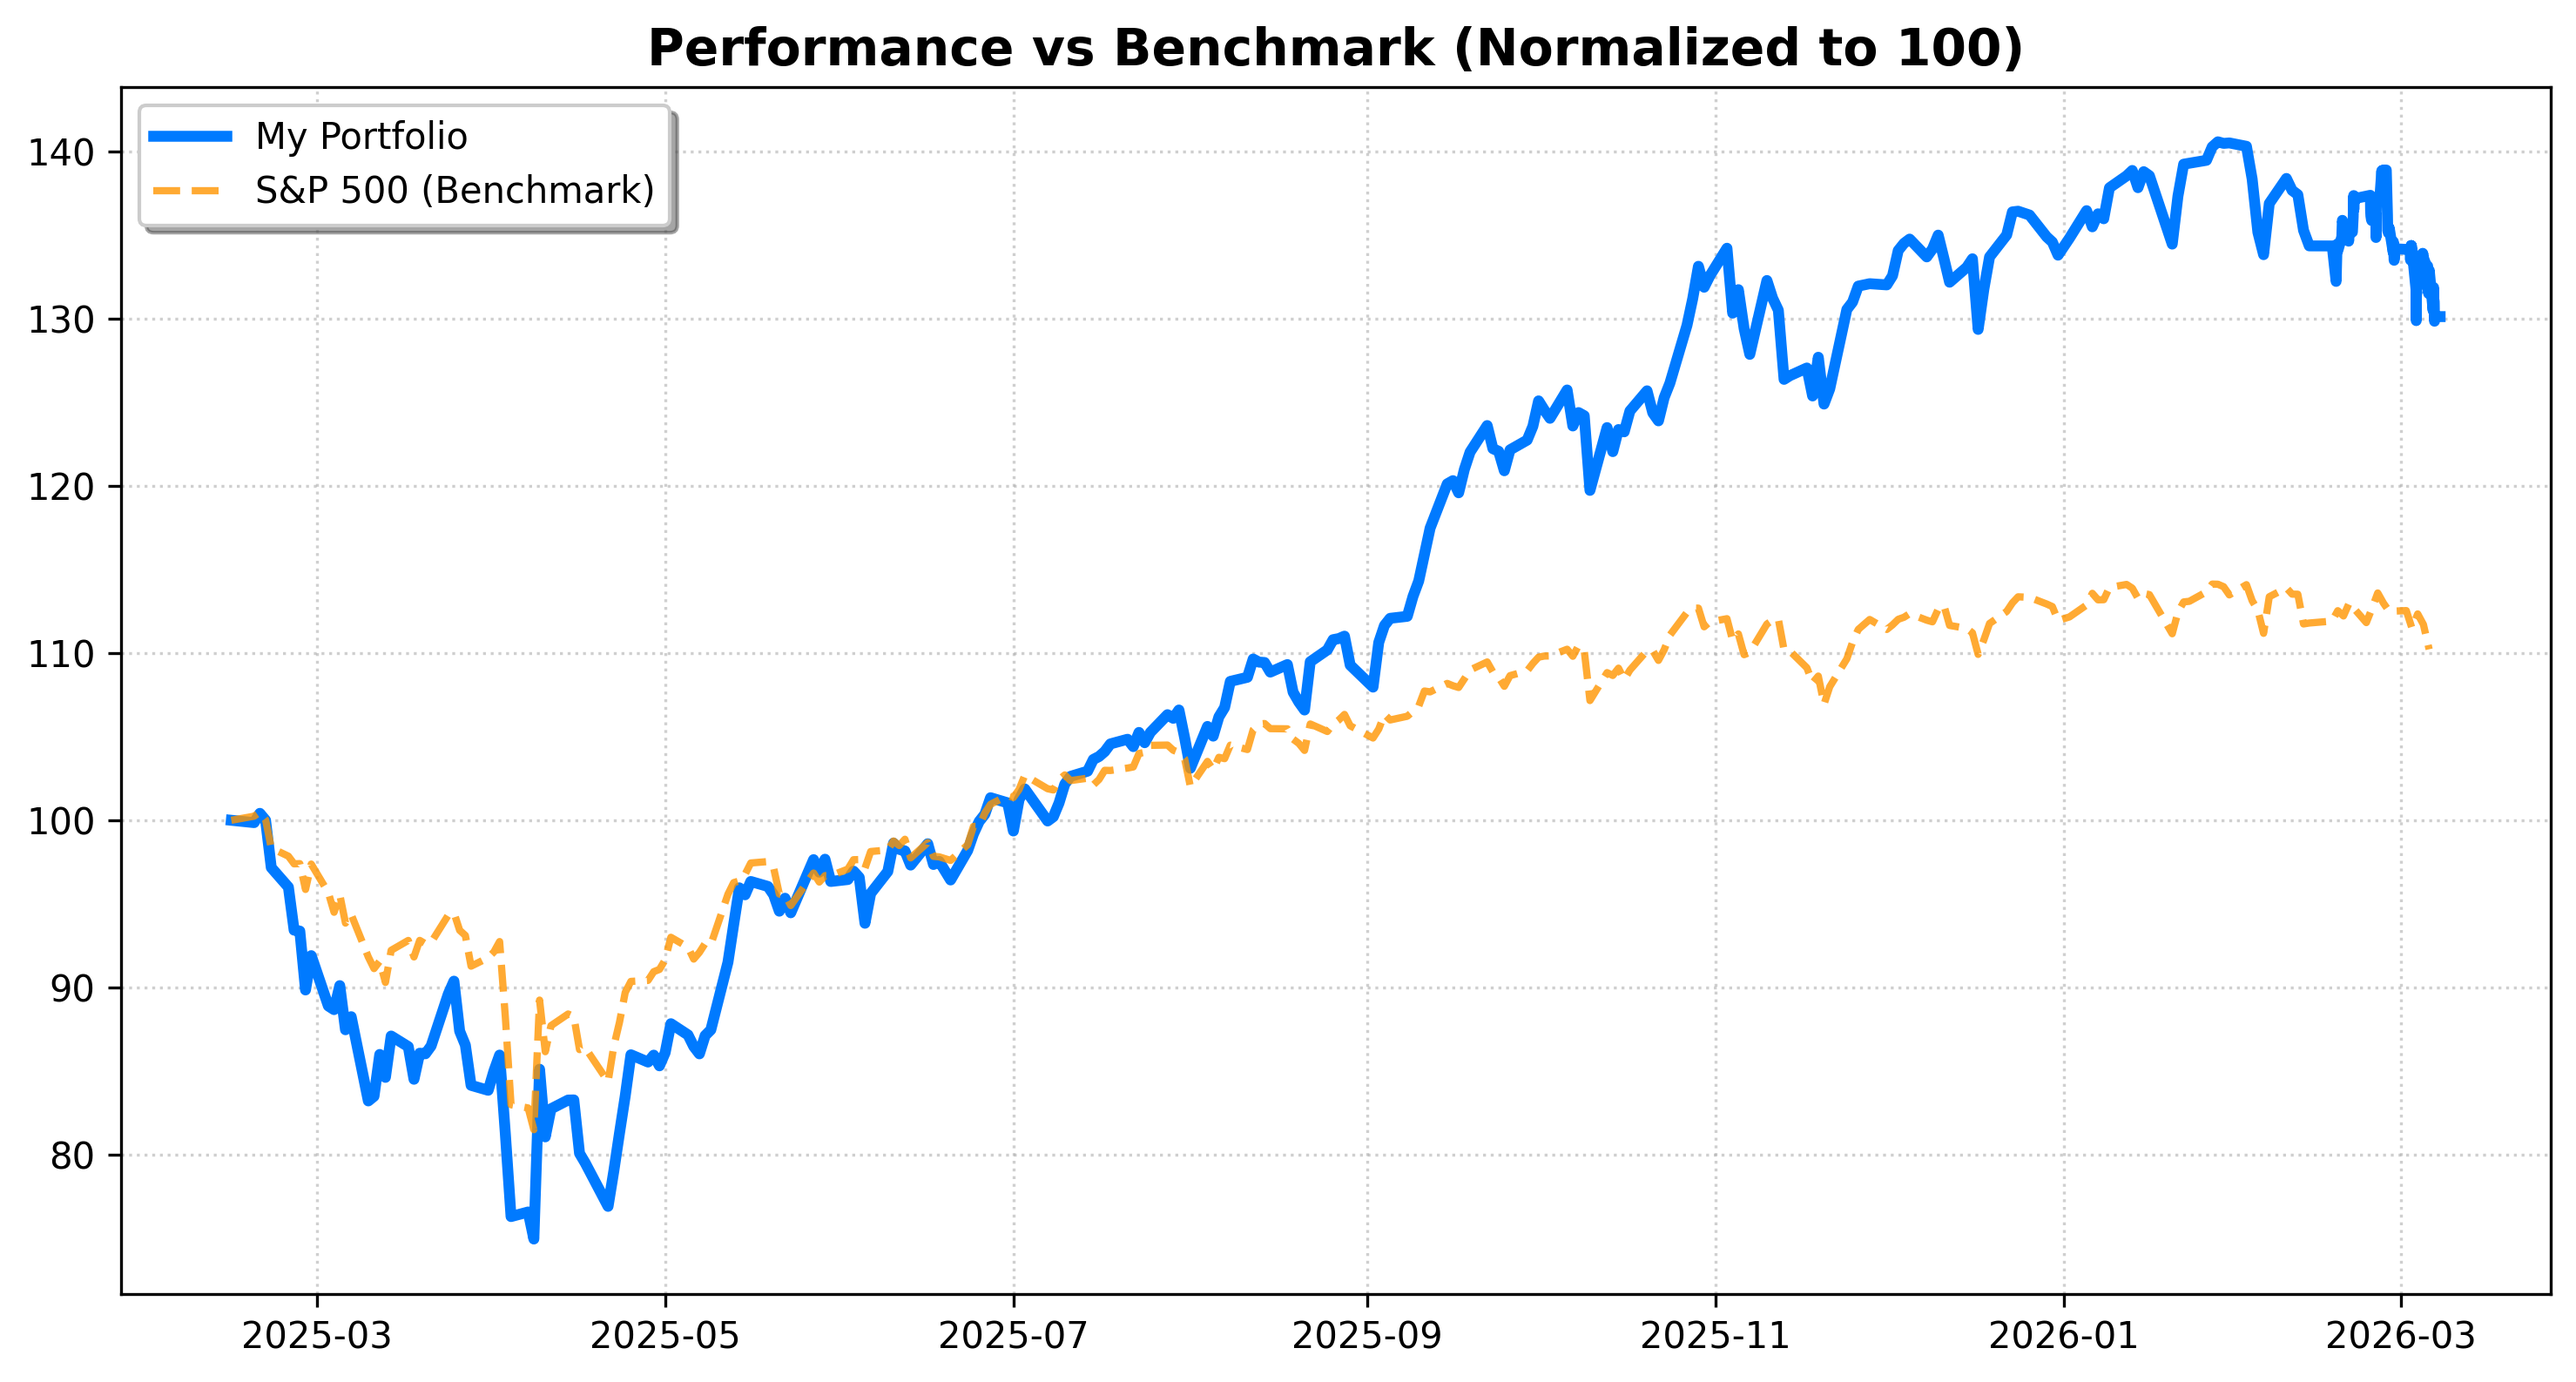
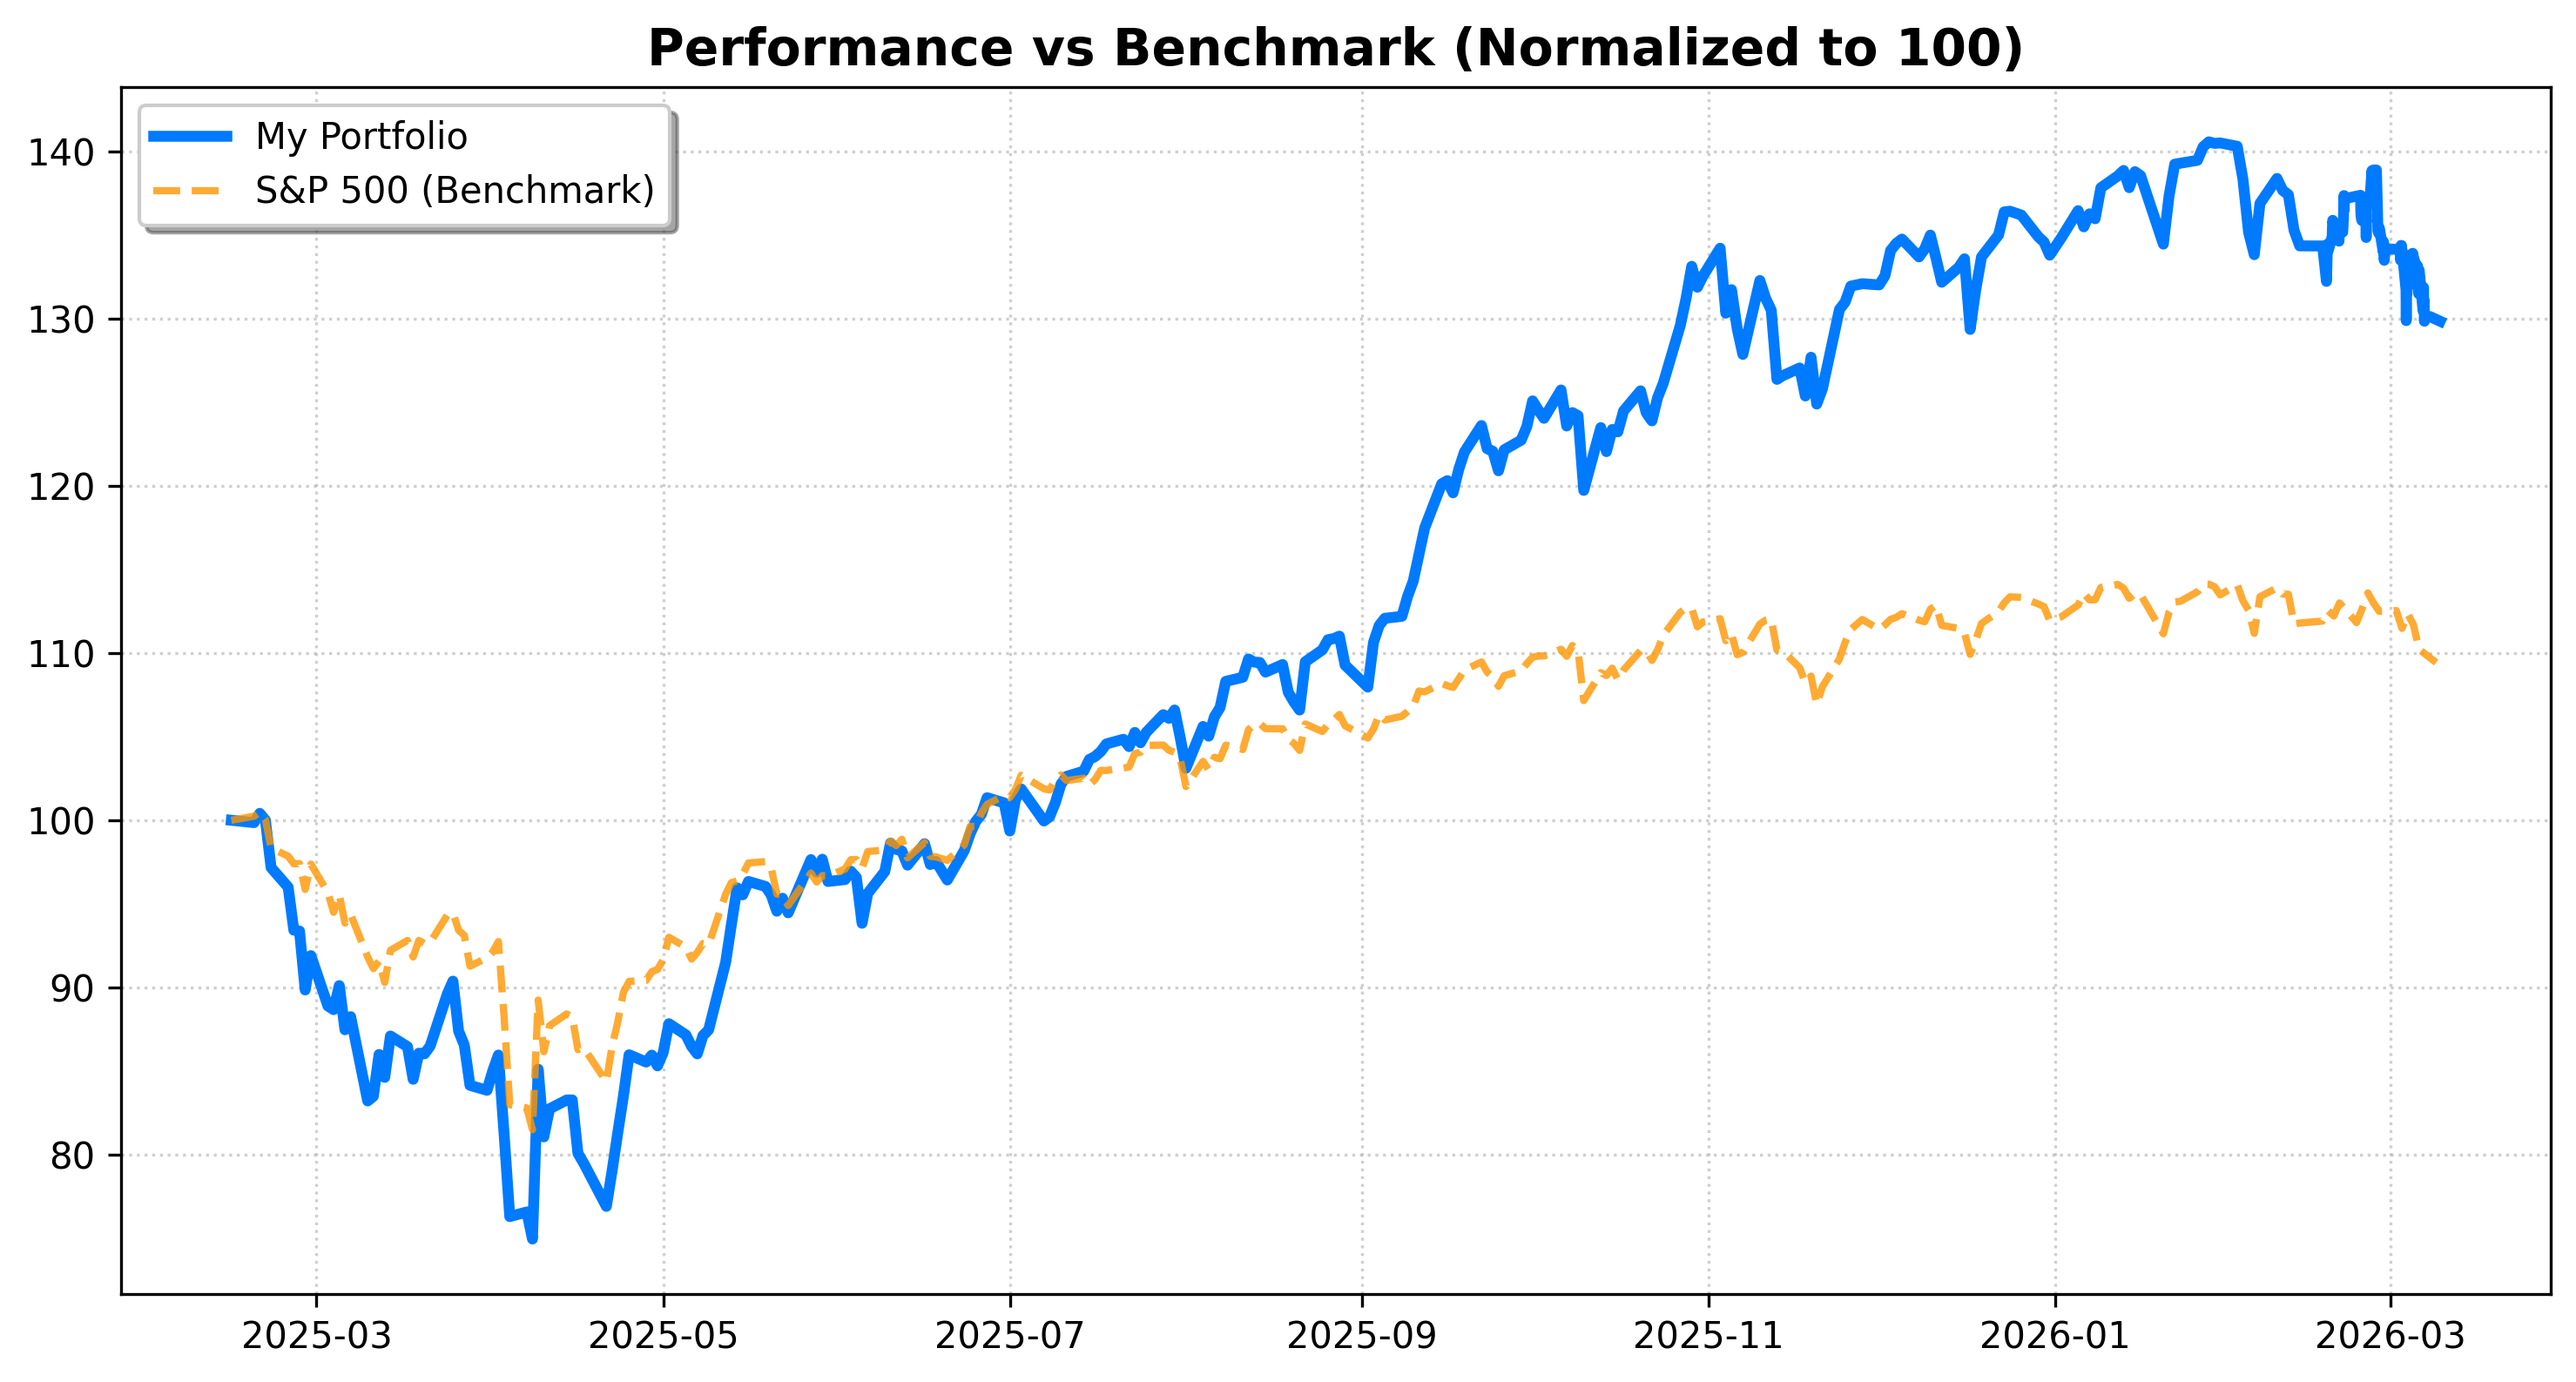
System Run: Analytics & Archive Update [skip ci]

diff --git a/README.md b/README.md
@@ -1,23 +1,23 @@
 # 📊 Portfolio Dashboard | מעקב תיק השקעות
-**Last Update:** 07/03/2026 22:14 | **USD/ILS:** ₪3.079
+**Last Update:** 09/03/2026 16:57 | **USD/ILS:** ₪3.102
 
 ## 💰 Portfolio Summary | סיכום התיק
 | Metric | Value | נתון |
 | :--- | :--- | :--- |
-| **Current Value** | `₪159,501` | **שווי נוכחי** |
-| **Total Invested** | `₪129,296` | **סך השקעה** |
-| **Total Profit/Loss** | `+23.36%` (₪30,204) | **רווח/הפסד כולל** |
-| **Daily Change** | `-0.60%` | **שינוי יומי** |
+| **Current Value** | `₪160,352` | **שווי נוכחי** |
+| **Total Invested** | `₪130,264` | **סך השקעה** |
+| **Total Profit/Loss** | `+23.10%` (₪30,088) | **רווח/הפסד כולל** |
+| **Daily Change** | `-0.21%` | **שינוי יומי** |
 
 ## 📜 Holdings | פירוט החזקות
 | Ticker | Shares | Avg. Cost | Current Price | P&L % | P&L ILS |
 | :--- | :--- | :--- | :--- | :--- | :--- |
-| GOOGL | 45 | $181.15 | $298.48 | 🟢 +64.77% | ₪16,254 |
-| ASML | 4 | $934.51 | $1,293.45 | 🟢 +38.41% | ₪4,420 |
-| XOM | 2 | $126.08 | $151.14 | 🟢 +19.88% | ₪154 |
-| NVDA | 57 | $148.62 | $177.69 | 🟢 +19.56% | ₪5,101 |
-| TSLA | 20 | $436.45 | $396.56 | 🔴 -9.14% | ₪-2,456 |
-| VOO | 24 | $527.38 | $618.48 | 🟢 +17.27% | ₪6,731 |
+| GOOGL | 45 | $181.15 | $299.42 | 🟢 +65.29% | ₪16,507 |
+| ASML | 4 | $934.51 | $1,312.73 | 🟢 +40.47% | ₪4,692 |
+| XOM | 2 | $126.08 | $153.57 | 🟢 +21.80% | ₪171 |
+| NVDA | 57 | $148.62 | $178.98 | 🟢 +20.43% | ₪5,367 |
+| TSLA | 20 | $436.45 | $386.14 | 🔴 -11.53% | ₪-3,121 |
+| VOO | 24 | $527.38 | $614.32 | 🟢 +16.49% | ₪6,472 |
 
 ## 📈 Charts | גרפים
 ![Performance](./data_hub/portfolio_performance.png)
